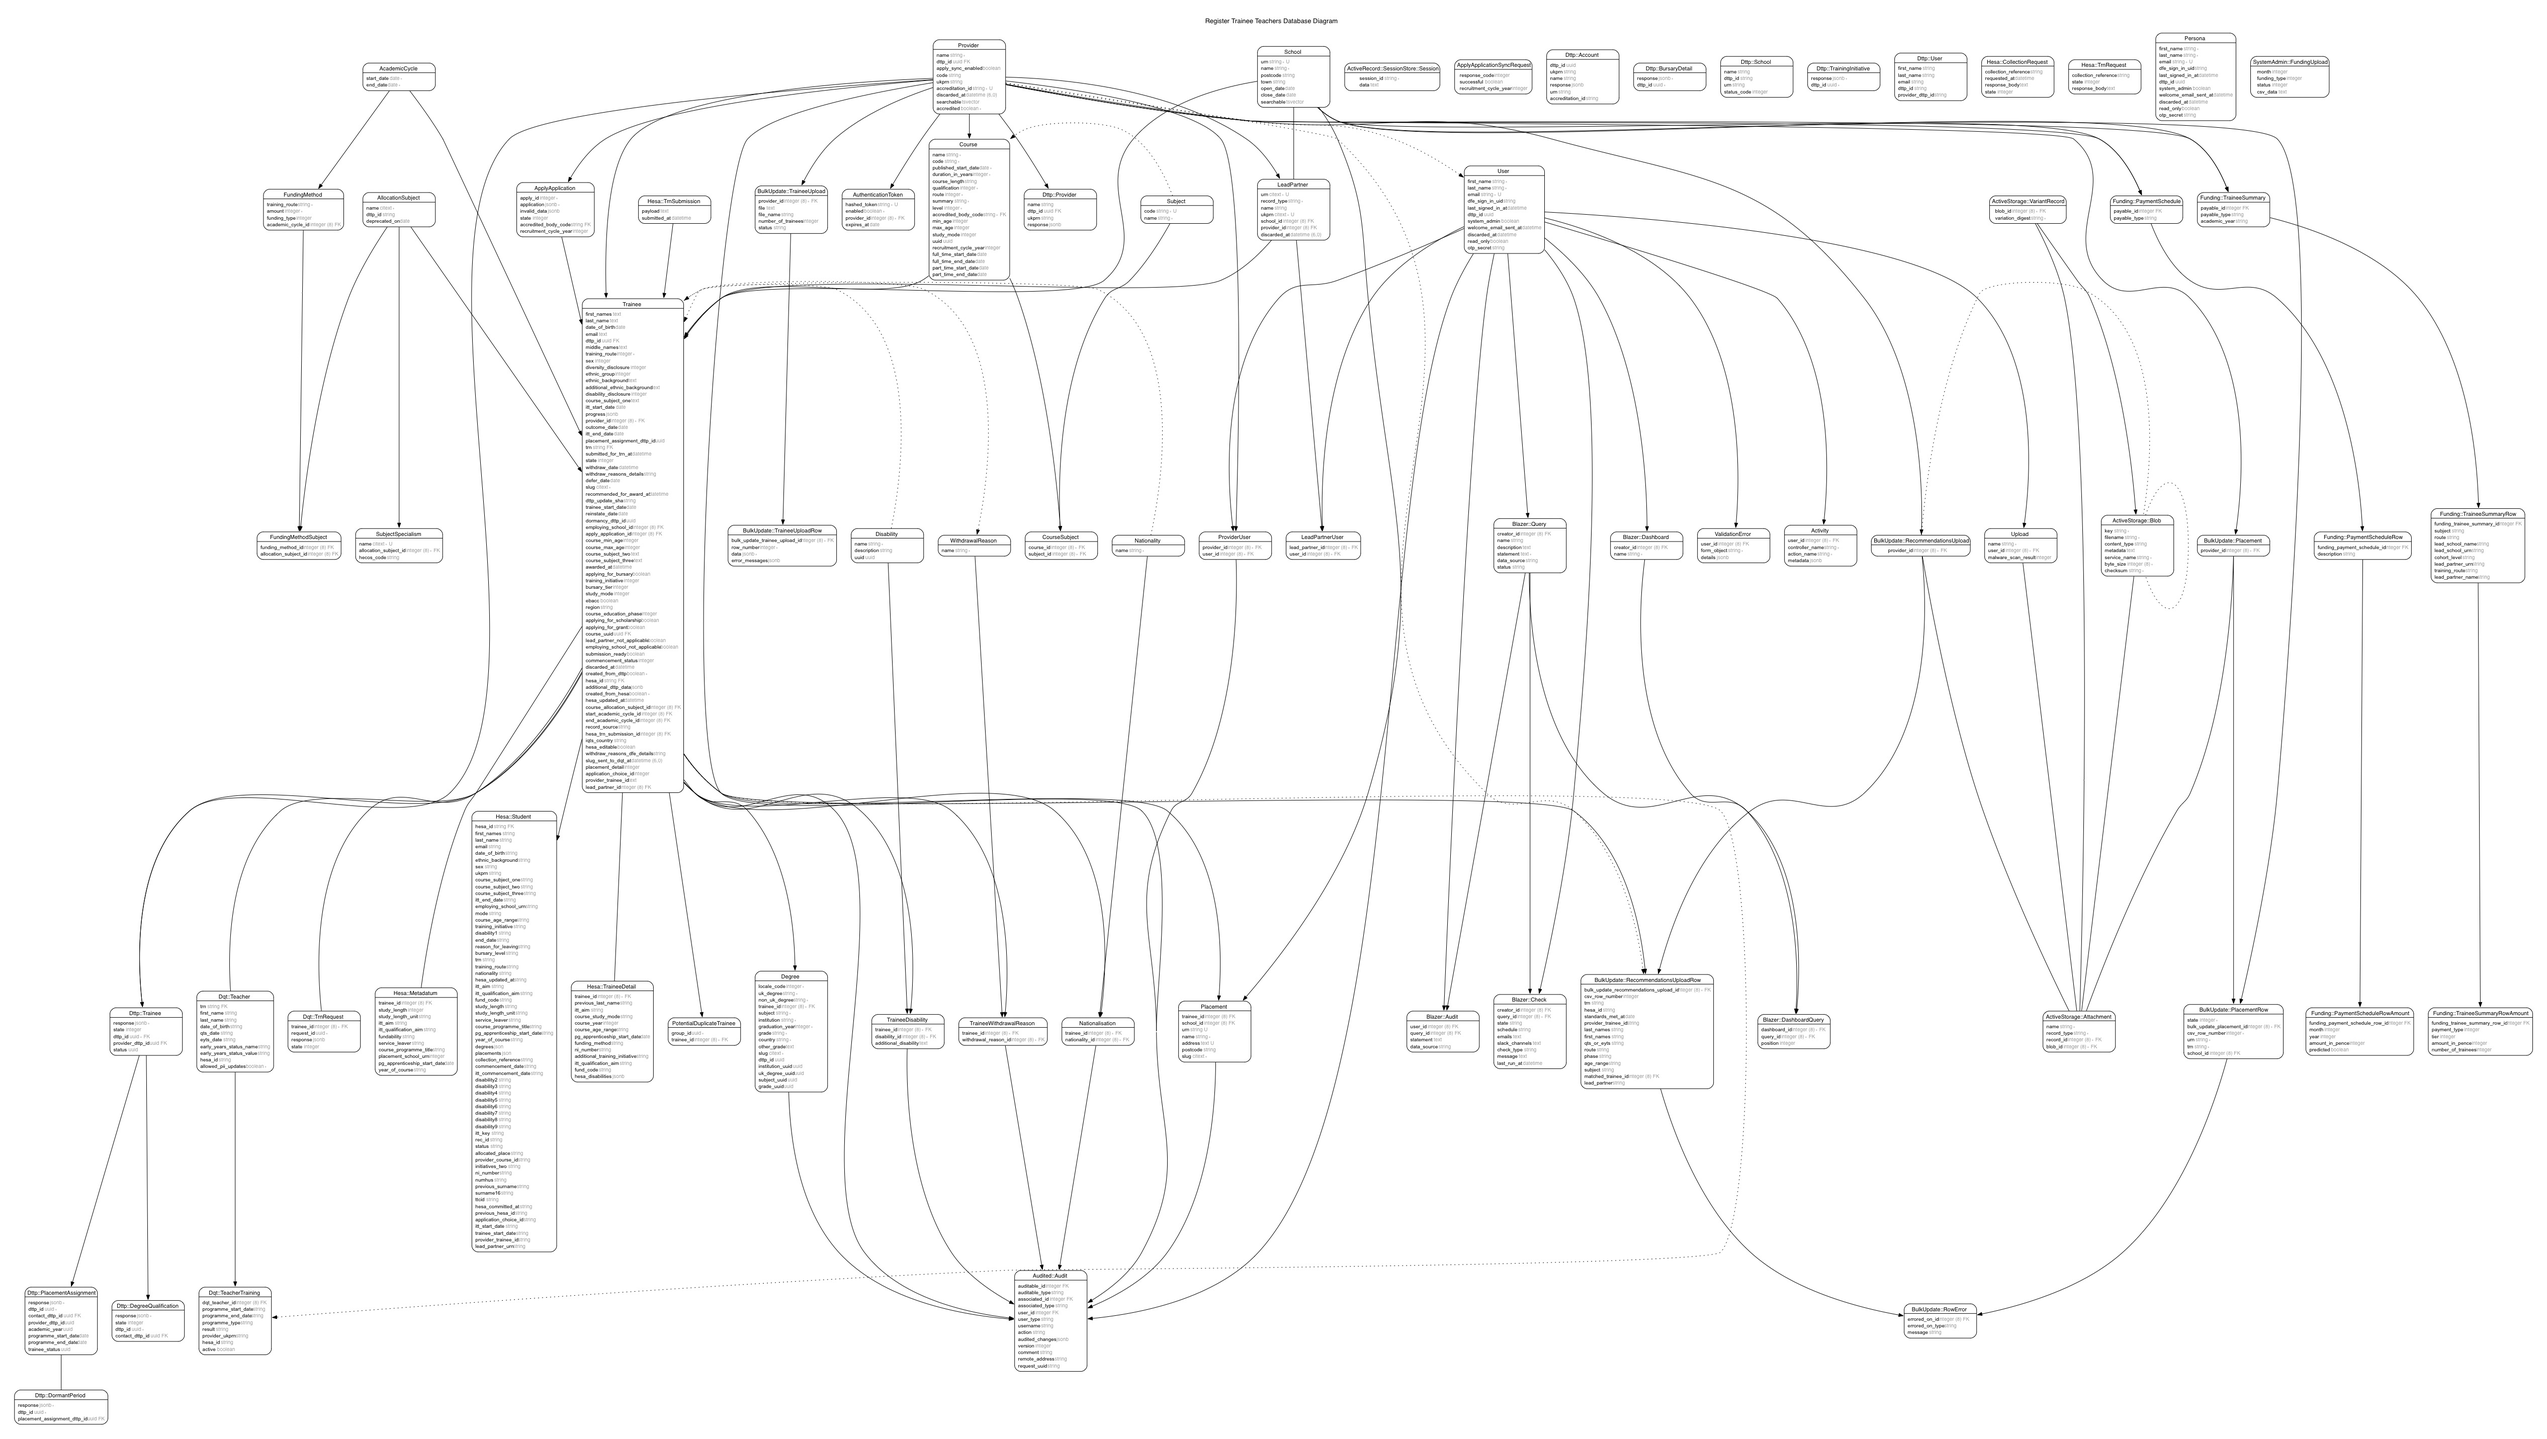
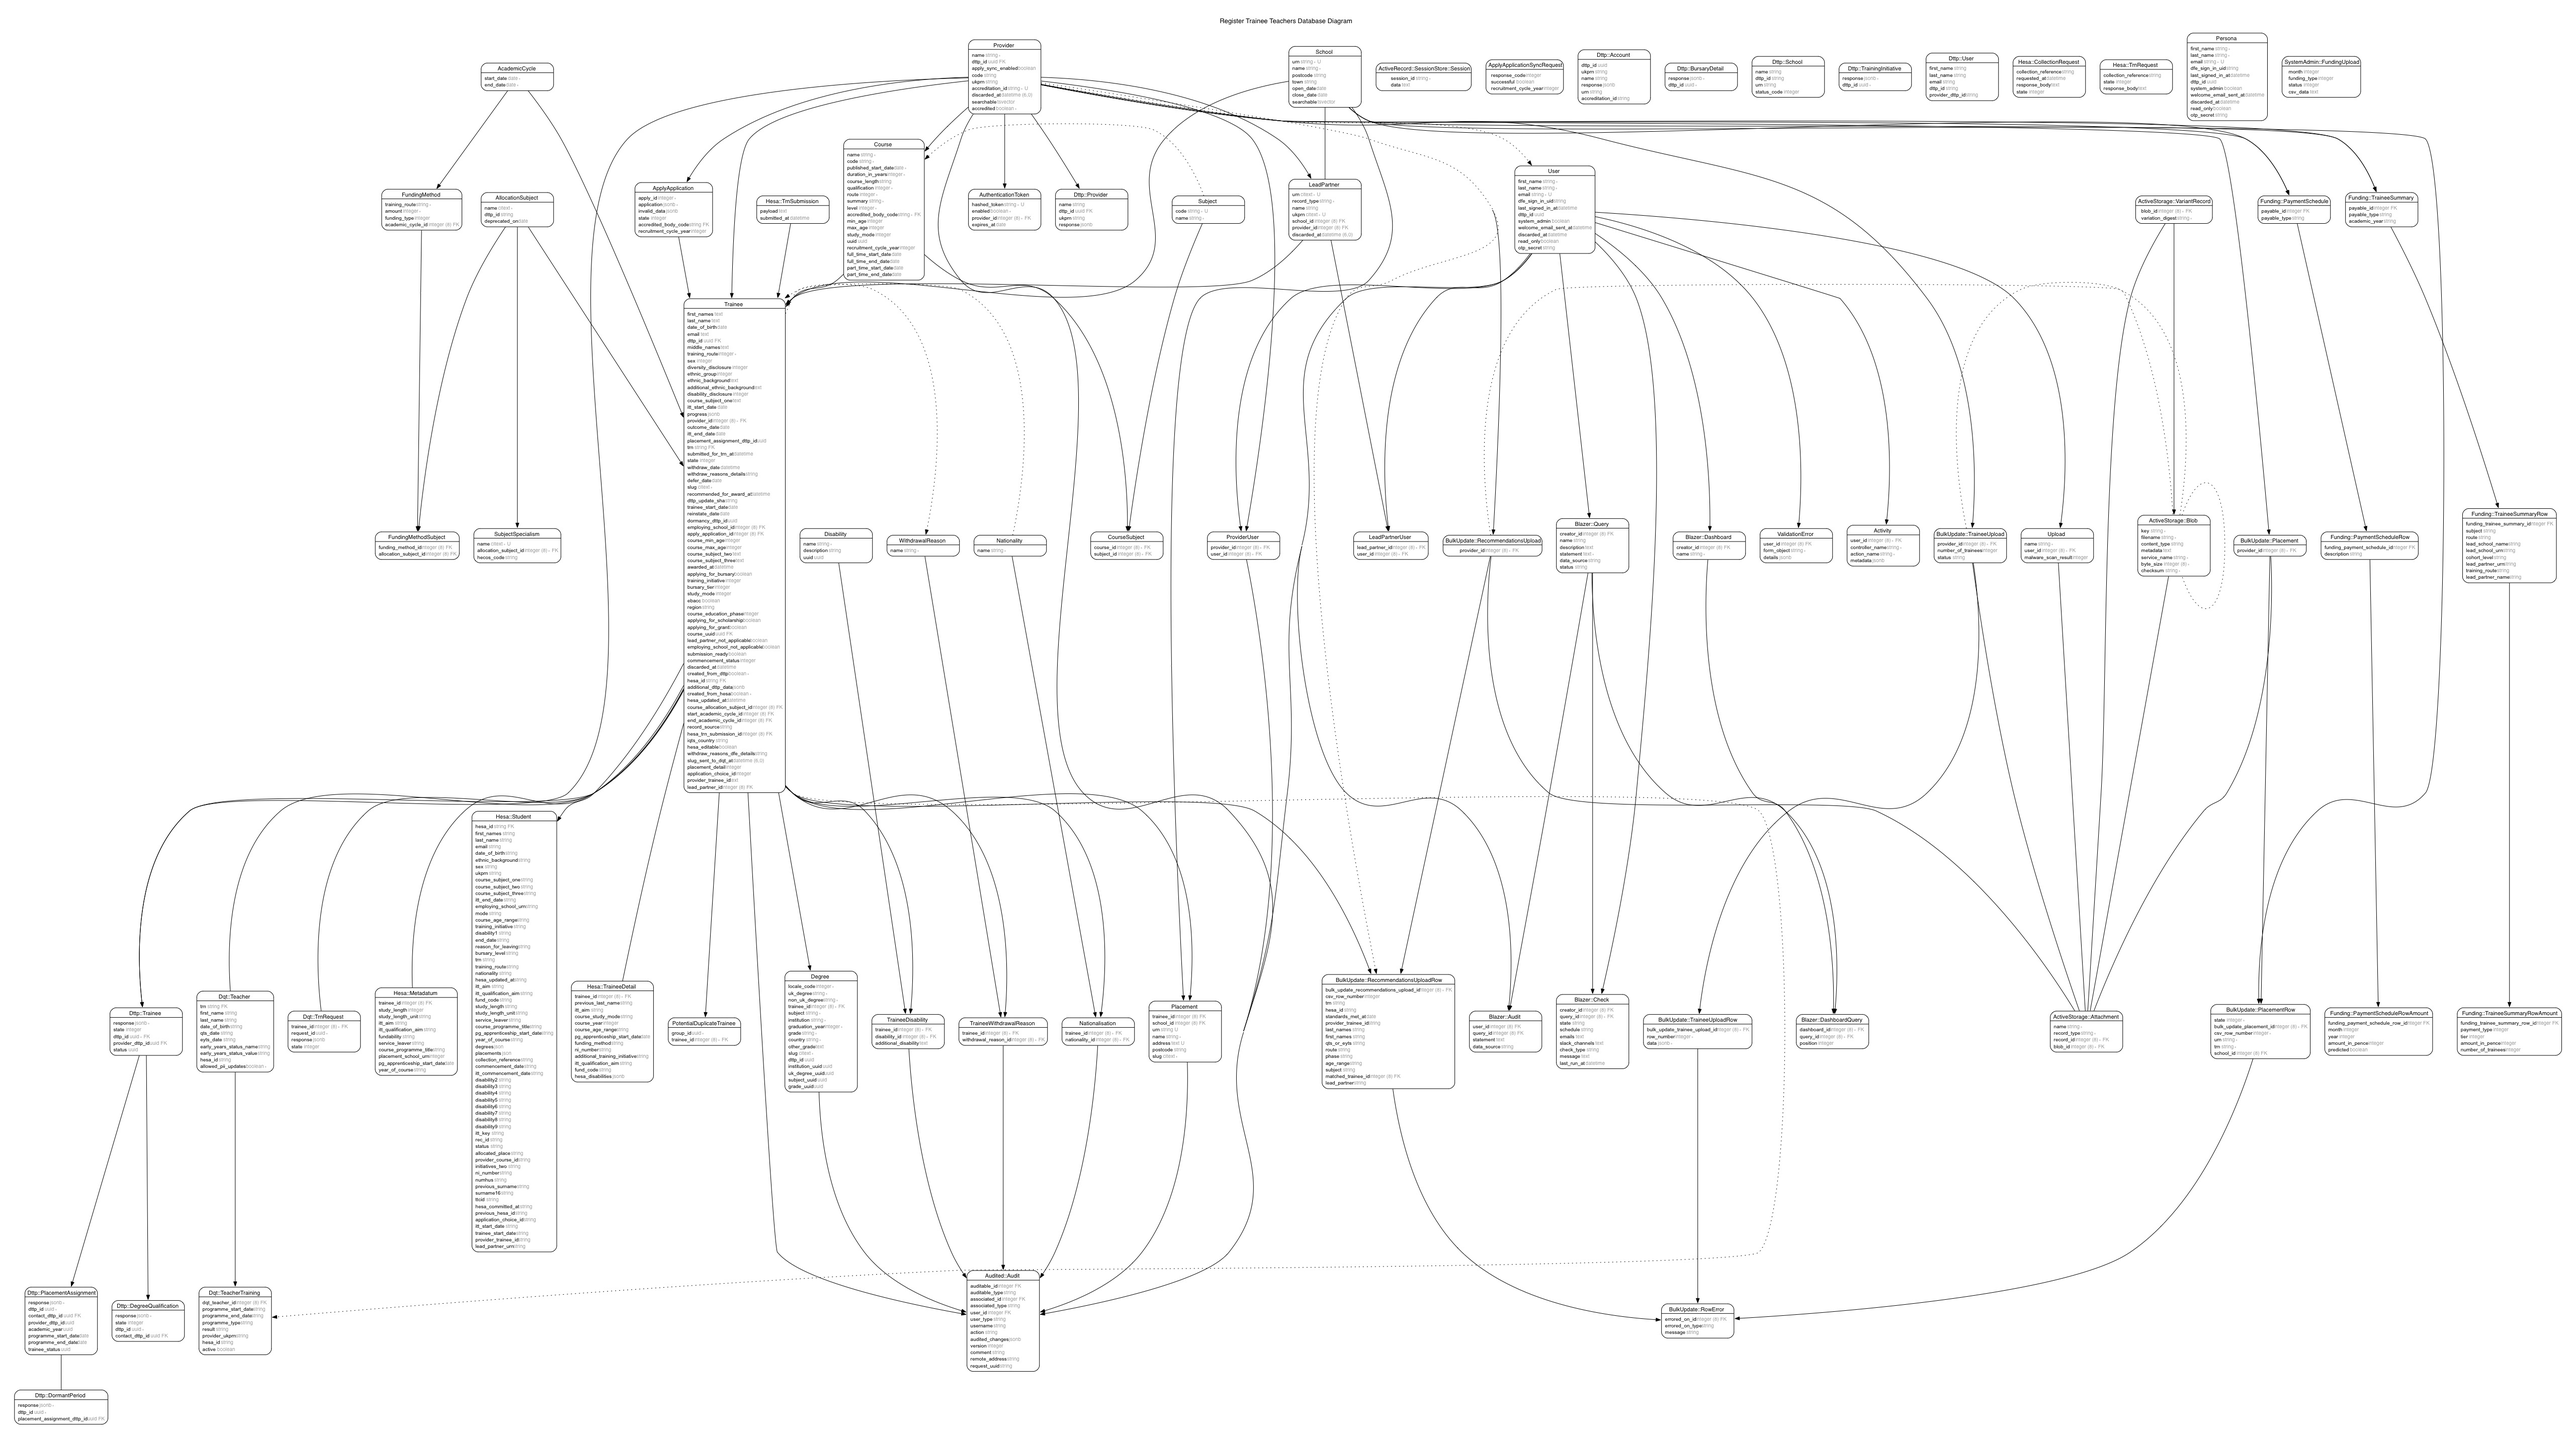
Move `BulkUpdate::TraineeUpload#file` to ActiveStorage

diff --git a/db/schema.rb b/db/schema.rb
@@ -248,7 +248,6 @@ ActiveRecord::Schema[7.2].define(version: 2024_10_30_160457) do
     t.bigint "bulk_update_trainee_upload_id", null: false
     t.integer "row_number", null: false
     t.jsonb "data", null: false
-    t.jsonb "error_messages"
     t.datetime "created_at", null: false
     t.datetime "updated_at", null: false
     t.index ["bulk_update_trainee_upload_id", "row_number"], name: "index_bulk_update_trainee_upload_rows_on_upload_and_row_number", unique: true
@@ -257,8 +256,6 @@ ActiveRecord::Schema[7.2].define(version: 2024_10_30_160457) do
 
   create_table "bulk_update_trainee_uploads", force: :cascade do |t|
     t.bigint "provider_id", null: false
-    t.text "file"
-    t.string "file_name"
     t.integer "number_of_trainees"
     t.string "status"
     t.datetime "created_at", null: false

diff --git a/spec/factories/bulk_update/trainee_uploads.rb b/spec/factories/bulk_update/trainee_uploads.rb
@@ -5,12 +5,16 @@ FactoryBot.define do
     provider
     status { "pending" }
     number_of_trainees { 5 }
-    file_name { "five_trainees.csv" }
-    file { Rails.root.join("spec/fixtures/files/bulk_update/trainee_uploads/five_trainees.csv").read }
+    after(:build) do |upload|
+      upload.file.attach(
+        io: Rails.root.join("spec/fixtures/files/bulk_update/trainee_uploads/five_trainees.csv").open,
+        filename: "five_trainees.csv",
+      )
+    end
 
     trait :with_rows do
       after(:create) do |upload|
-        CSV.parse(upload.file, headers: true).map.with_index do |row, index|
+        CSV.parse(upload.file.download, headers: true).map.with_index do |row, index|
           create(
             :bulk_update_trainee_upload_row,
             bulk_update_trainee_upload: upload,

diff --git a/app/models/bulk_update/trainee_upload.rb b/app/models/bulk_update/trainee_upload.rb
@@ -5,8 +5,6 @@
 # Table name: bulk_update_trainee_uploads
 #
 #  id                 :bigint           not null, primary key
-#  file               :text
-#  file_name          :string
 #  number_of_trainees :integer
 #  status             :string
 #  created_at         :datetime         not null
@@ -29,6 +27,8 @@ class BulkUpdate::TraineeUpload < ApplicationRecord
            foreign_key: :bulk_update_trainee_upload_id,
            inverse_of: :bulk_update_trainee_upload,
            dependent: :destroy
+
+  has_one_attached :file
 
   enum :status, {
     pending: "pending",

diff --git a/app/services/bulk_update/add_trainees/import_row.rb b/app/services/bulk_update/add_trainees/import_row.rb
@@ -27,7 +27,11 @@ module BulkUpdate
         trainee_attributes = trainee_attributes_service.new(mapper_klass.call(params: attributes))
 
         # Save the record
-        json_result = Api::CreateTrainee.call(current_provider:, trainee_attributes:, version:)
+        json_result = Api::CreateTrainee.call(
+          current_provider:,
+          trainee_attributes:,
+          version:,
+        )
 
         json_result_to_result(json_result)
       end

diff --git a/app/services/bulk_update/add_trainees/import_rows.rb b/app/services/bulk_update/add_trainees/import_rows.rb
@@ -78,7 +78,7 @@ module BulkUpdate
 
         ActiveRecord::Base.transaction do |_transaction|
           if dry_run
-            CSV.parse(trainee_upload.file, headers: true).map.with_index do |row, index|
+            CSV.parse(trainee_upload.file.download, headers: true).map.with_index do |row, index|
               BulkUpdate::TraineeUploadRow.create!(
                 bulk_update_trainee_upload: trainee_upload,
                 data: row.to_h,

diff --git a/app/models/bulk_update/trainee_upload_row.rb b/app/models/bulk_update/trainee_upload_row.rb
@@ -6,7 +6,6 @@
 #
 #  id                            :bigint           not null, primary key
 #  data                          :jsonb            not null
-#  error_messages                :jsonb
 #  row_number                    :integer          not null
 #  created_at                    :datetime         not null
 #  updated_at                    :datetime         not null

diff --git a/db/migrate/20240930085414_add_bulk_update_trainee_uploads.rb b/db/migrate/20240930085414_add_bulk_update_trainee_uploads.rb
@@ -4,8 +4,6 @@ class AddBulkUpdateTraineeUploads < ActiveRecord::Migration[7.2]
   def change
     create_table :bulk_update_trainee_uploads do |t|
       t.references :provider, null: false, foreign_key: true
-      t.text :file
-      t.string :file_name
       t.integer :number_of_trainees
       t.string :status
       t.jsonb :error_messages

diff --git a/app/forms/bulk_update/bulk_add_trainees_upload_form.rb b/app/forms/bulk_update/bulk_add_trainees_upload_form.rb
@@ -41,8 +41,7 @@ module BulkUpdate
     def create_upload
       BulkUpdate::TraineeUpload.create!(
         provider: provider,
-        file: File.read(file),
-        file_name: file.original_filename,
+        file: file,
         number_of_trainees: csv&.count,
         status: valid? ? :pending : :failed,
       )
